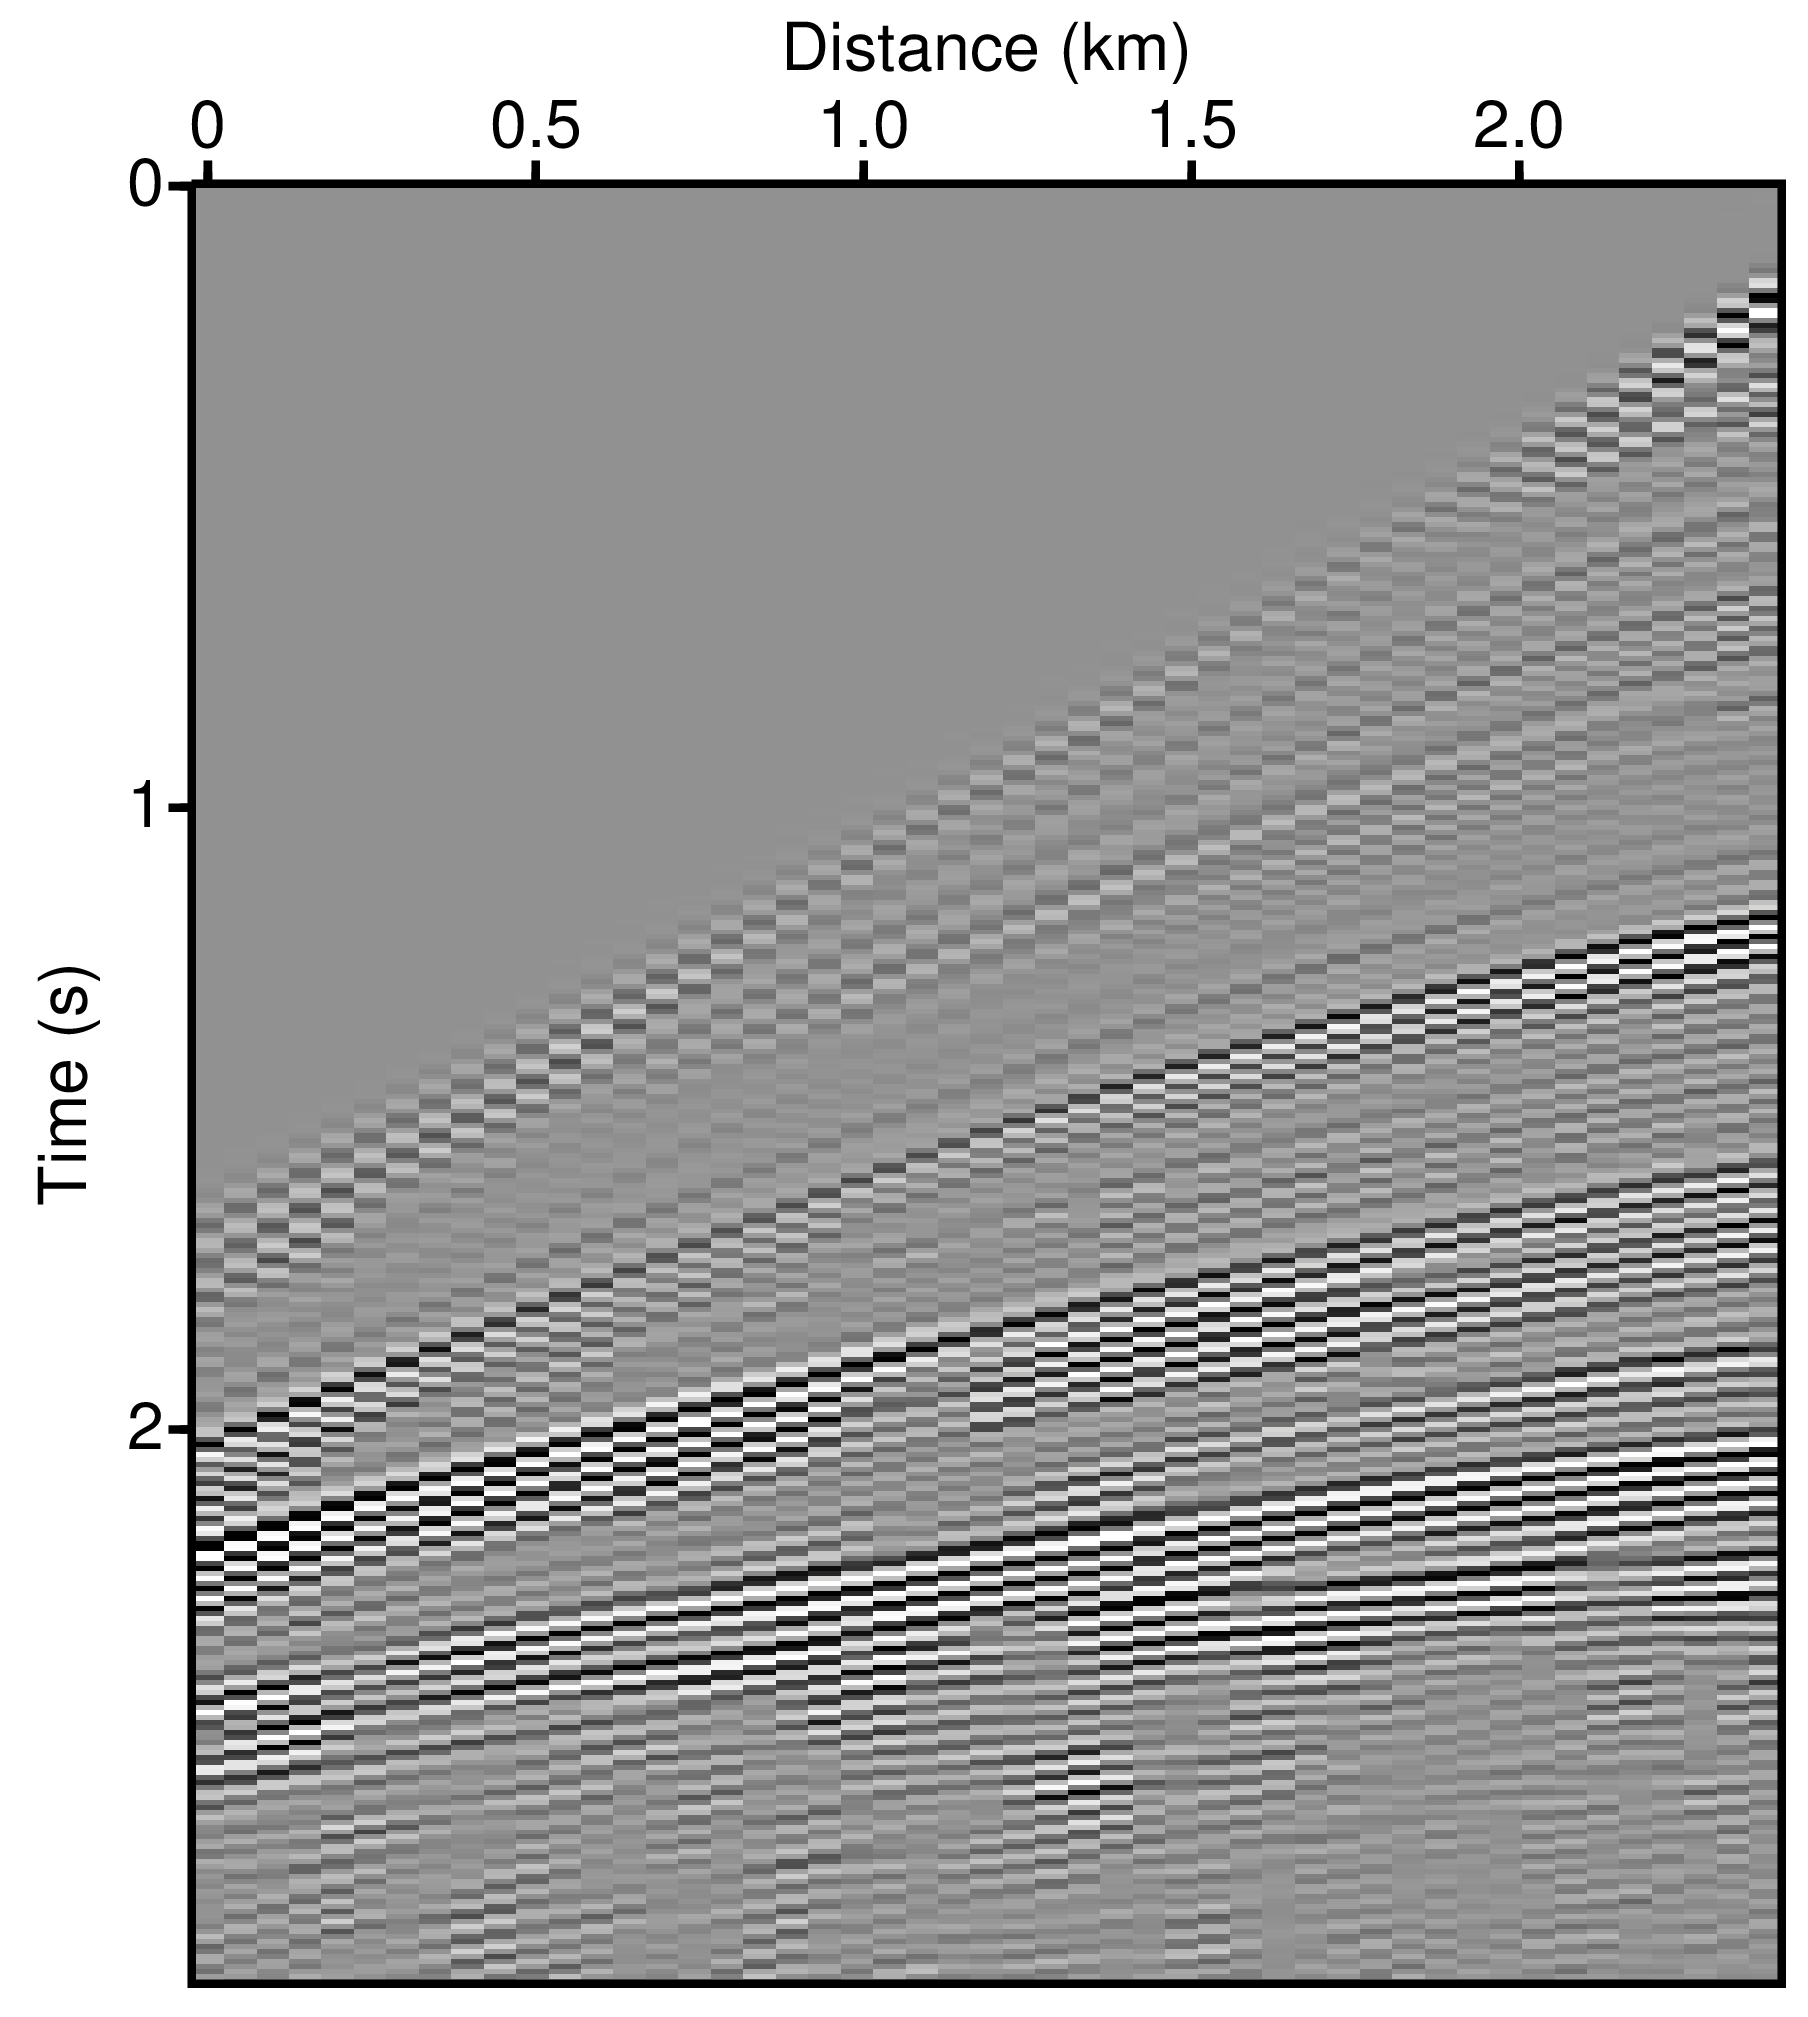
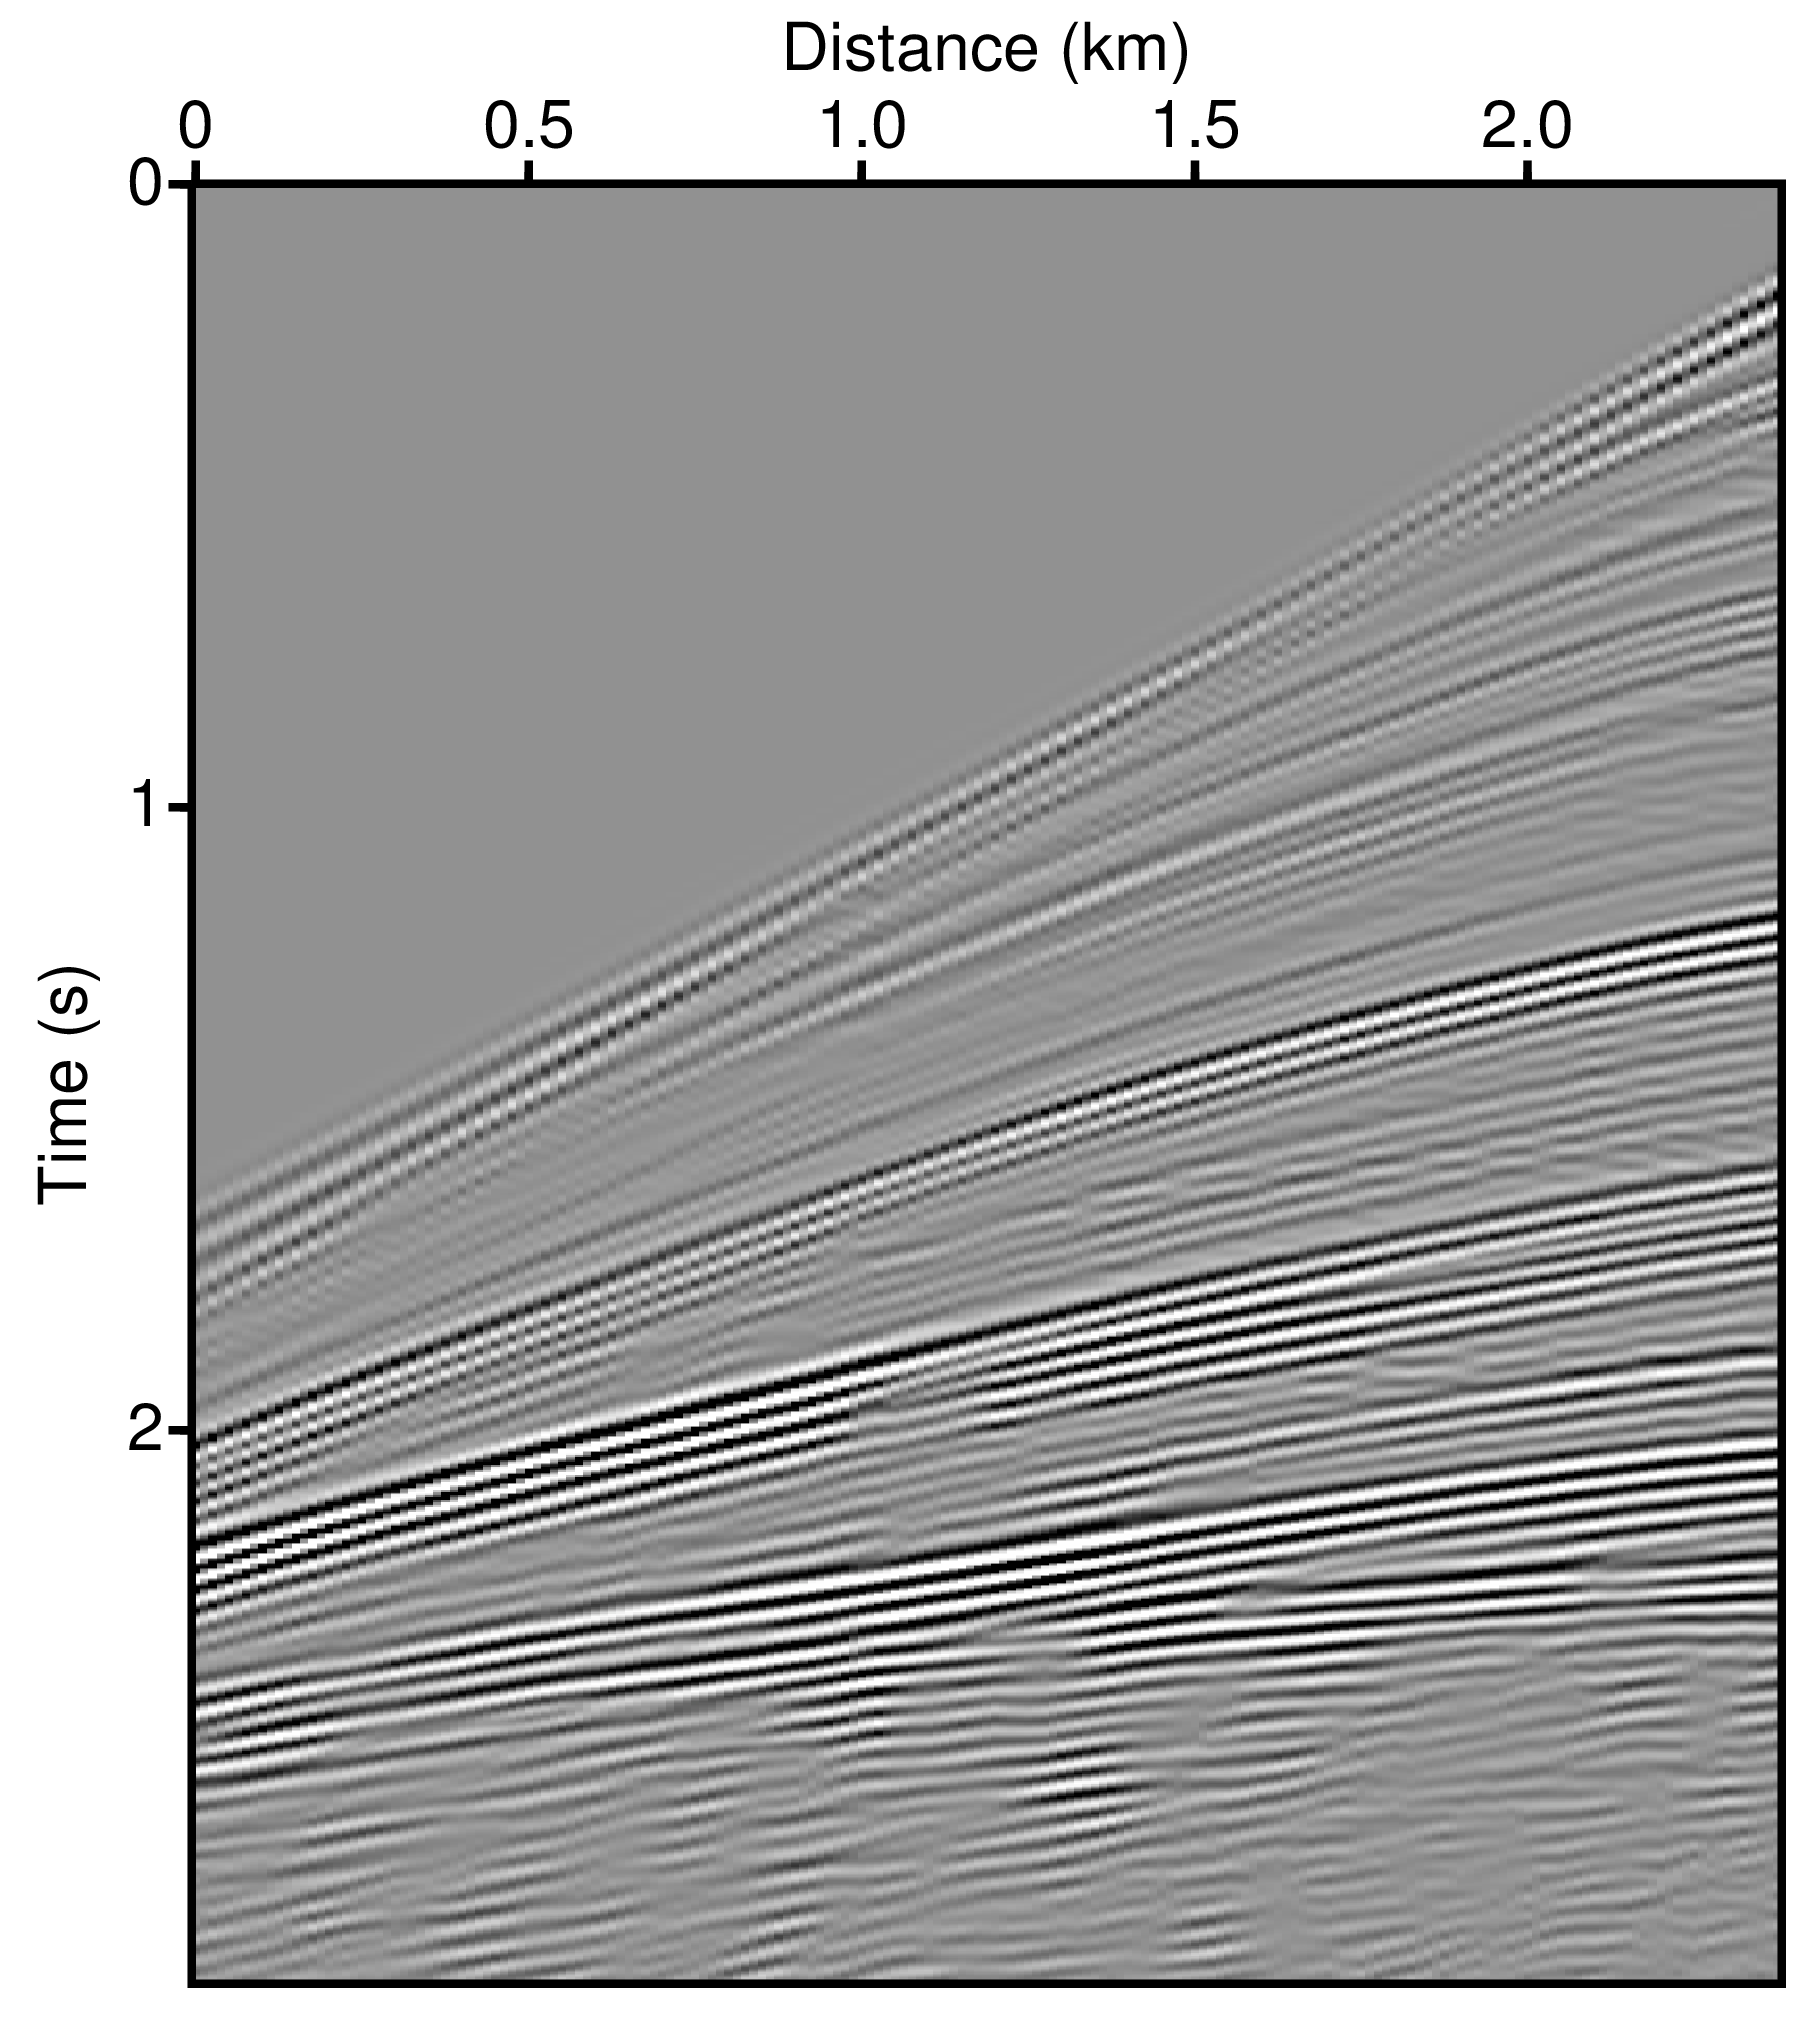
plot resolution - seismo, spec

diff --git a/_notebook/plot.py b/_notebook/plot.py
@@ -1,0 +1,19 @@
+from gpl.psplot import plot
+
+vel="marm16km.drt"
+opt="n1=188 d1=0.016 d2=0.016 d1num=1 d2num=2"
+
+plot.velocity("vel.png",vel,opt+"lbeg=1.5 lend=5.5 lfnum=1.5")
+plot.velocity_color("vel_color.png",vel,opt)
+plot.velocity_color("density_color.png",vel,opt,unit="g/cc")
+plot.gradient("grad.png",vel,opt)
+plot.gradient_color("grad_color.png",vel,opt)
+plot.migration("mig.png",vel,opt)
+plot.contour("contour.png",vel,opt)
+
+seismo="marm3000.su"
+opt2="f2=0 d2=0.025 d1s=0.5 d2s=0.5"
+plot.seismogram("seismo.png",seismo,opt2)
+
+spec="marm3000fx.su"
+plot.spectrum("spec.png",spec,opt2)

diff --git a/_posts/2016-10-10-plot_seismic_processing_results.md b/_posts/2016-10-10-plot_seismic_processing_results.md
@@ -112,7 +112,7 @@ plot.migration("mig.png",vel,opt)
 plot.contour("contour.png",vel,opt)
 
 seismo="marm3000.su"
-opt2="f2=0 d2=0.025"
+opt2="f2=0 d2=0.025 d1s=0.5 d2s=0.5"
 plot.seismogram("seismo.png",seismo,opt2)
 
 spec="marm3000fx.su"
